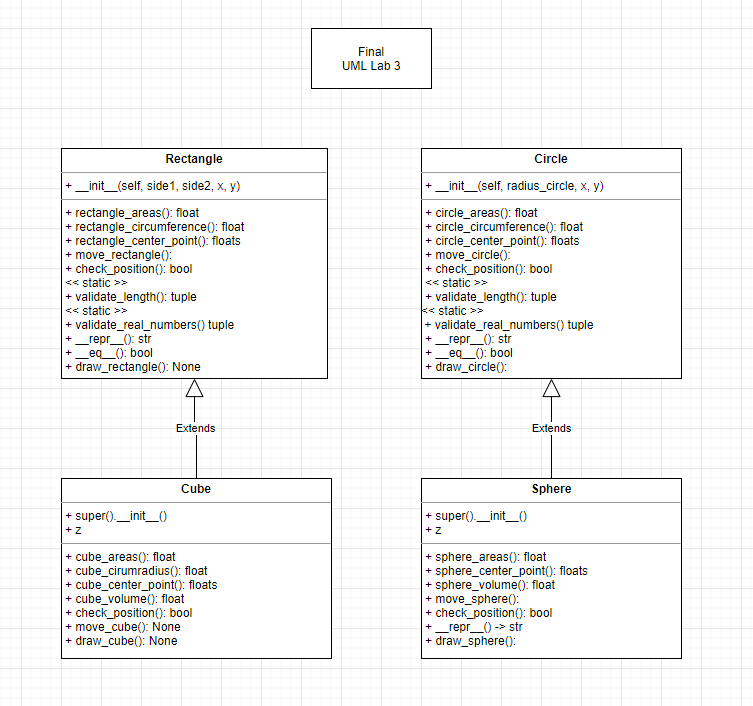
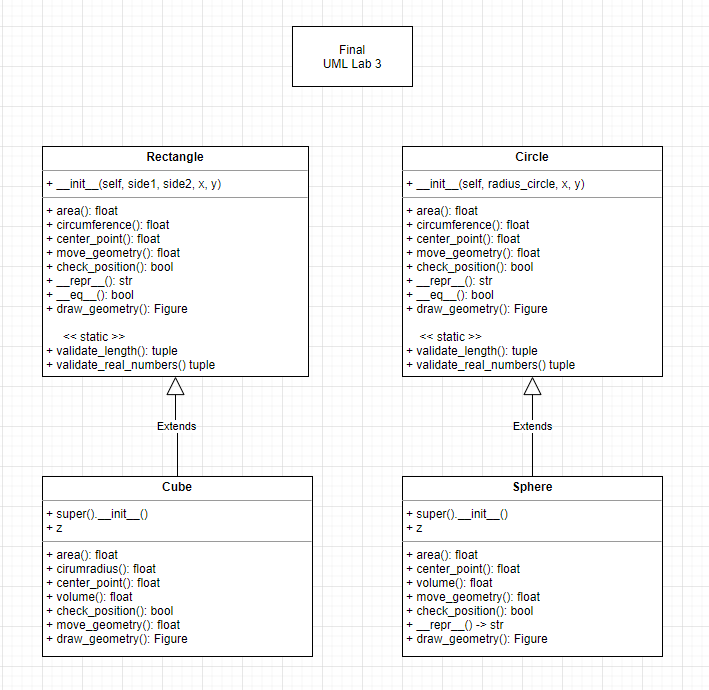
update method names

diff --git a/Labs_and_Explorations/Lab3/rectangle.py b/Labs_and_Explorations/Lab3/rectangle.py
@@ -21,16 +21,16 @@ class Rectangle:
 
             Methods
             -------
-            rectangle_areas - > float:
+            area - > float:
                 calculates the rectangle area
 
-            rectangle_circumferences - > float
+            circumferences - > float
                 calculates the rectangle circumference
 
-            rectangle_center_point -> floats
+            center_point -> floats
                 calculate the rectangle center point x,y
 
-            move_rectangle -> x, y (float)
+            move_geometry -> x, y (float)
                 set the new coordinates to move the rectangle
 
             check_position -> Bool
@@ -50,7 +50,7 @@ class Rectangle:
             __eq__ - > bool
                  equality for side1, side2, return True if equal, else False
 
-            draw_rectangle -> None
+            draw_2d_geometry -> Figure
                 plots the rectangle and the random point
     """
 
@@ -64,7 +64,7 @@ class Rectangle:
         Rectangle.validate_length(side1, side2)
         Rectangle.validate_real_numbers(x, y)
 
-    def rectangle_areas(self):
+    def area(self):
         """
         calculate rectangle area
         :formula: side * side
@@ -73,7 +73,7 @@ class Rectangle:
         rectangle_area = self.side1 * self.side2
         return rectangle_area
 
-    def rectangle_circumferences(self):
+    def circumferences(self):
         """
         calculate rectangle circumference
         :return: rectangle_circumference
@@ -81,7 +81,7 @@ class Rectangle:
         rectangle_circumference = self.side1 * 2 + self.side2 * 2
         return rectangle_circumference
 
-    def rectangle_center_point(self):
+    def center_point(self):
         """
         rectangle center point x, y
         :return: rectangle_center_x, rectangle_center_y
@@ -90,7 +90,7 @@ class Rectangle:
         rectangle_center_y = self.y + (self.side2/2)
         return rectangle_center_x, rectangle_center_y
 
-    def move_rectangle(self, move_x, move_y):
+    def move_geometry(self, move_x, move_y):
         """
         set the new coordinates to move the rectangle
         :param move_x: update self.x
@@ -159,7 +159,7 @@ class Rectangle:
     def __repr__(self):
         return f"Rectangle (side1 = {self.side1}, side2 = {self.side2} x = {self.x}, y = {self.y})"
 
-    def draw_rectangle(self):
+    def draw_2d_geometry(self):
         """
         :return: plot the rectangle
         """
@@ -187,31 +187,16 @@ rectangle_3 = Rectangle(4, 1, -2, -3)
 """
 # tests manual
 print(rectangle_1)
-print(rectangle_1.rectangle_areas())
-print(rectangle_1.rectangle_circumferences())
-print(rectangle_1.rectangle_center_point())
+print(rectangle_1.area())
+print(rectangle_1.circumferences())
+print(rectangle_1.center_point())
 print(rectangle_1.check_position(point_x, point_y))
 print(f"rectangle_1 == rectangle_2 : {rectangle_1 == rectangle_2}")
-print(rectangle_1.draw_rectangle())
-print(rectangle_1.move_rectangle(-5, -5))
+print(rectangle_1.draw_2d_geometry())
+print(rectangle_1.move_geometry(-5, -5))
 print(rectangle_1)
 print(rectangle_1.check_position(point_x, point_y))
-print(rectangle_1.rectangle_center_point())
-print(rectangle_1.draw_rectangle())
+print(rectangle_1.center_point())
+print(rectangle_1.draw_2d_geometry())
 print("--------------")
-"""
-# tests manual
-"""
-print(rectangle_2)
-print(rectangle_2.rectangle_areas())
-print(rectangle_2.rectangle_circumferences())
-print(rectangle_2.rectangle_center_point())
-print(rectangle_2.check_position(point_x, point_y))
-print(f"rectangle_1 == rectangle_3 : {rectangle_1 == rectangle_3}")
-print(rectangle_2.draw_rectangle())                                  
-print(rectangle_2.move_rectangle(-5, -5))
-print(rectangle_2)
-print(rectangle_2.check_position(point_x, point_y))
-print(rectangle_2.rectangle_center_point())
-print(rectangle_2.draw_rectangle())
-"""
+""""
